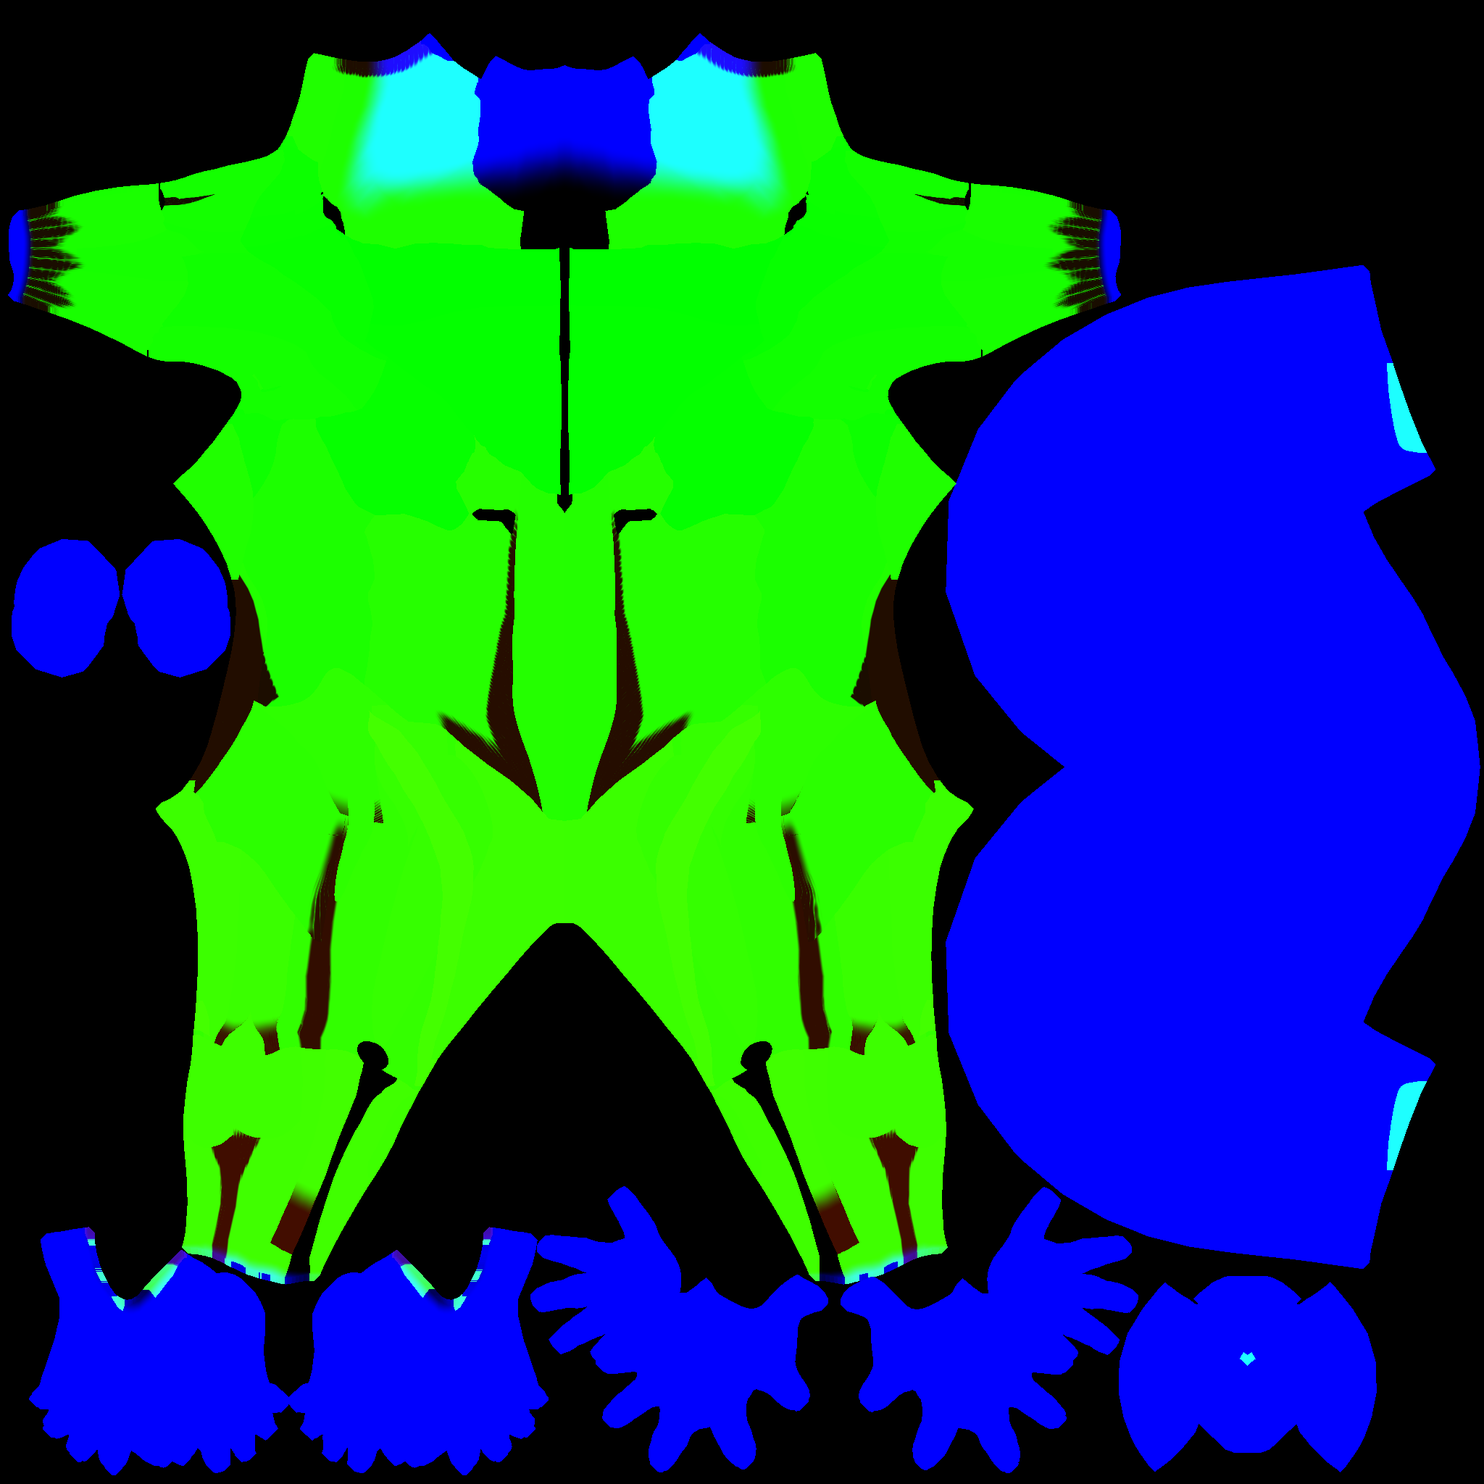
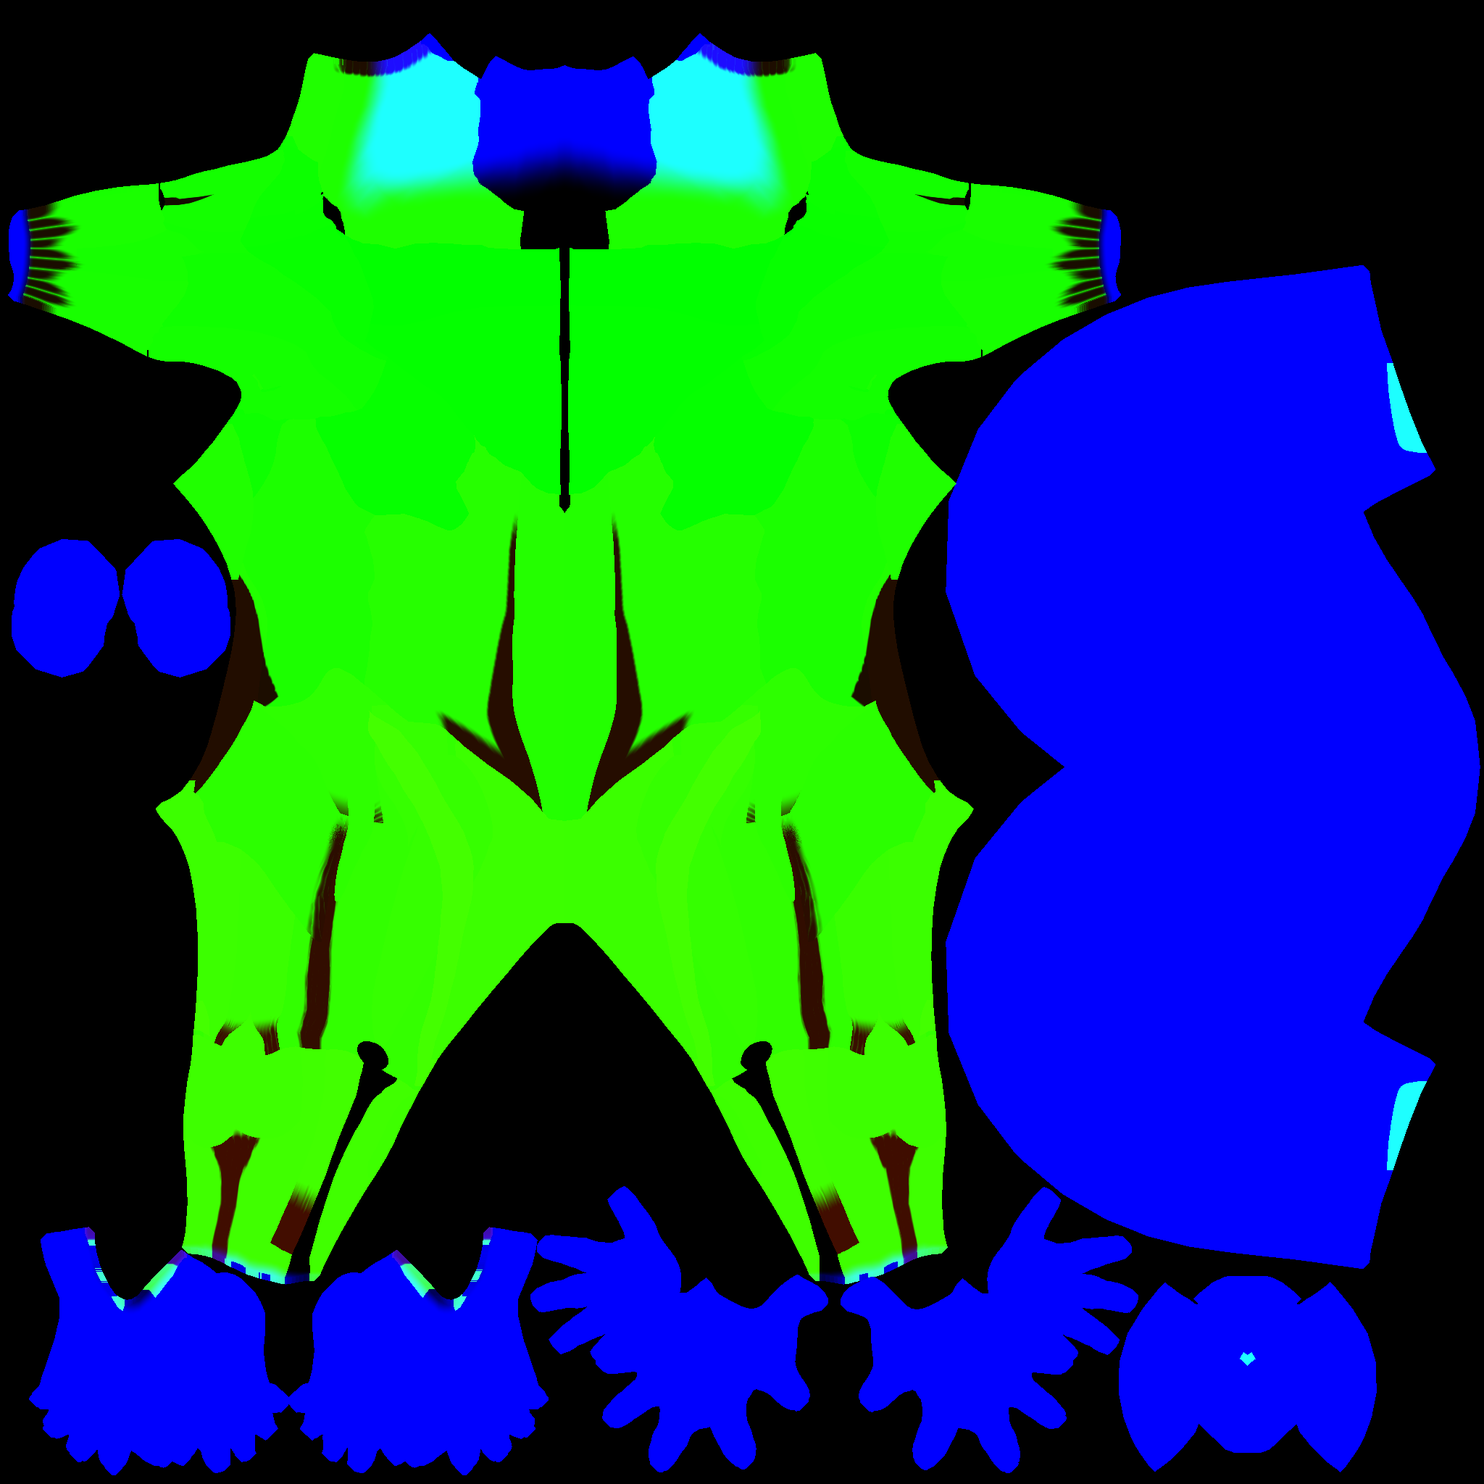
Anatomie feiner: gezeichnete Faserstränge, runde Muskelbäuche, Bauchzacken, Version 0.6.0
- Fasern als Stränge in der Farbe statt im Relief (glitzerten wie Strick):
  feine Trennlinie, runde Schattierung, eigene Helligkeit je Strang; wo die
  Textur zu grob ist, doppelt so breite Stränge statt Ausblenden
- Wölbung je Muskel geglättet (keine Dachgrate/Pyramiden mehr auf dem Sixpack)
- Grenzpunkte zwischen den Texeln, Abstandsfeld leicht geglättet: schräge
  Furchen ohne Treppenstufen; helle Faszie aus dem ungeglätteten Feld
- Äußerer schräger Bauchmuskel mit spitzen Ursprungszacken am Rippenbogen,
  Maskenlücke am Rippenbogen geschlossen, Aponeurose mit glattem Rand
- Reliefkarte trägt im Grünkanal die Furchentiefe; Furchen fangen kein
  Glanzlicht mehr (keine lila Säume vom Fülllicht)

Claude-Session: https://claude.ai/code/session_01LHRCLqy4qHW6NHZ8ZRBzk7

diff --git a/tools/anatomie-kern.ts b/tools/anatomie-kern.ts
@@ -8,7 +8,7 @@
 //
 // Ergebnis je Geschlecht:
 //   farbe  RGB  – gemalte Anatomie (sRGB)
-//   hoehe  L    – Relief für Bump-Mapping (0,5 = neutral)
+//   hoehe  RGB  – R = Relief für Bump-Mapping (0,5 = neutral), G = Furchentiefe (dämpft Glanz)
 //   karte  RGBA – R = Einheit (0 = Sehne/Haut), G = Muskelanteil (255 = Muskel, 0 = Sehne), B = Hautzone
 
 import fs from 'node:fs';
@@ -184,7 +184,8 @@ export function backe(g: 'm' | 'w', N = 2048): Ergebnis {
         return ix(u > 0.58 && v > 0.45 ? 'serratus' : u < uRect(v) ? 'bauch_g' : 'bauch_s', s);
       }
     }
-    if ((id === 'bauch_g' || id === 'bauch_s') && nz > -0.05 && u < 0.6 && v >= 0.45) return ix(u < uRect(v) ? 'bauch_g' : 'bauch_s', s);
+    if ((id === 'bauch_g' || id === 'bauch_s' || (id === '' && u > 0.03 && v < 0.53 + 0.22 * Math.pow(Math.min(1, u), 1.6))) && nz > -0.05 && u < 0.6 && v >= 0.45)
+      return ix(u < uRect(v) ? 'bauch_g' : 'bauch_s', s);   // auch Maskenlücken am Rippenbogen
     // Becken und Oberschenkel: Grenzen im Koordinatensystem des Oberschenkels (Winkel w um die Achse, Höhe v),
     // damit Beckenkamm, Leistenband, Gesäßfalte und Spanner der Oberschenkelbinde glatt verlaufen
     if (UNTEN.has(id) && v < 0.45 && u < 1.4) {
@@ -305,6 +306,10 @@ export function backe(g: 'm' | 'w', N = 2048): Ergebnis {
       const breite = v > 0.14 ? 0.4 * Math.max(0, 1 - (v - 0.14) / 0.32) : 0.4 * Math.max(0, 1 - (0.14 - v) / 0.24);
       s = id === 'strecker' && v < 0.14 ? 0.88 : 0.88 * (1 - glatt(breite - 0.015, breite + 0.015, u)) * glatt(0.05, 0.3, -nz);
     } else if (id === 'bauch_s' && nz > -0.2) {
+      // Ursprungszacken an den unteren Rippen, in Flucht der Sägemuskel-Zacken; abwechselnd lang (Verzahnung)
+      const q = (y + 0.6 * z) / 0.026, j = Math.floor(q), lang = ((j % 2) + 2) % 2;
+      const spitze = 0.5 + 0.07 * lang + 0.16 * Math.abs(q - j - 0.5);       // jede Zacke endet als Finger
+      if (v > 0.3 && u > spitze) k = 1 + (((j % 8) + 8) % 8);
       // Aponeurose des äußeren schrägen Bauchmuskels: schmal neben dem Sixpack, nach unten breiter, Saum am Leistenband
       const rand = uRect(v) + 0.03 + 0.1 * glatt(0.38, 0.05, v);
       const neben = 1 - glatt(rand - 0.015, rand + 0.015, u);
@@ -359,16 +364,17 @@ export function backe(g: 'm' | 'w', N = 2048): Ergebnis {
   for (let py = 0; py < N; py++) for (let px = 0; px < N; px++) {
     const i = py * N + px;
     if (dreieck[i] < 0) continue;
-    let st = 0, hl = 0;
+    let st = 0, hl = 0, jb = i;
     for (const j of [px + 1 < N ? i + 1 : -1, py + 1 < N ? i + N : -1]) {
       if (j < 0 || dreieck[j] < 0 || teil[j] === teil[i]) continue;
       // nur echte Nachbarn im Raum (UV-Nähte trennen Texel, die im Körper weit auseinanderliegen)
       const d = Math.hypot(pos[3 * i] - pos[3 * j], pos[3 * i + 1] - pos[3 * j + 1], pos[3 * i + 2] - pos[3 * j + 2]);
       if (d > 0.006) continue;
       const sv = staerke(teil[i], teil[j]) * (1 - 0.75 * Math.min(sehne[i], sehne[j]));
-      if (sv > st) { st = sv; hl = hellVon(teil[i], teil[j]); }
+      if (sv > st) { st = sv; hl = hellVon(teil[i], teil[j]); jb = j; }
     }
-    if (st > 0) { randPkte.push(pos[3 * i], pos[3 * i + 1], pos[3 * i + 2]); randSt.push(st); randHell.push(hl); }
+    // Grenzpunkt genau zwischen den beiden Texeln (halbiert die Treppenstufen schräger Grenzen)
+    if (st > 0) { randPkte.push((pos[3 * i] + pos[3 * jb]) / 2, (pos[3 * i + 1] + pos[3 * jb + 1]) / 2, (pos[3 * i + 2] + pos[3 * jb + 2]) / 2); randSt.push(st); randHell.push(hl); }
   }
 
   // ---------- 4. Abstand jedes Texels zur nächsten Grenze (3D, Gitter 2 cm) ----------
@@ -397,10 +403,57 @@ export function backe(g: 'm' | 'w', N = 2048): Ergebnis {
     abstand[i] = Math.sqrt(best); naechsteSt[i] = bs; naechsteHell[i] = bh;
   }
 
+  // ---------- 4a. Abstandsfeld leicht glätten (Treppen aus dem Texelraster) ----------
+  const abstandRoh = abstand.slice();   // für die feinen hellen Linien (würden durch die Glättung verschwinden)
+  {
+    const RR = 3, kk = Array.from({ length: 2 * RR + 1 }, (_, k) => Math.exp(-(((k - RR) / 1.6) ** 2) / 2));
+    const zw = new Float32Array(NN2);
+    for (const [quelle, ziel, schritt] of [[abstand, zw, 1], [zw, abstand, N]] as [Float32Array, Float32Array, number][]) {
+      const kopie = quelle === abstand ? abstand.slice() : quelle;
+      for (let py = 0; py < N; py++) for (let px = 0; px < N; px++) {
+        const i = py * N + px;
+        if (dreieck[i] < 0) continue;
+        let sw = 0, sv = 0;
+        for (let k = -RR; k <= RR; k++) {
+          const xx = schritt === 1 ? px + k : px, yy = schritt === 1 ? py : py + k;
+          if (xx < 0 || yy < 0 || xx >= N || yy >= N) continue;
+          const j = yy * N + xx;
+          if (dreieck[j] < 0) continue;
+          const d3 = Math.hypot(pos[3 * i] - pos[3 * j], pos[3 * i + 1] - pos[3 * j + 1], pos[3 * i + 2] - pos[3 * j + 2]);
+          if (d3 > 0.008) continue;                                       // UV-Naht: im Körper nicht benachbart
+          sw += kk[k + RR]; sv += kk[k + RR] * kopie[j];
+        }
+        ziel[i] = sw > 0 ? sv / sw : kopie[i];
+      }
+    }
+  }
+
+  // ---------- 4b. Wölbung je Muskel glätten ----------
+  // Das Abstandsfeld zur nächsten Grenze hat Grate (Dachform, Pyramiden auf dem Sixpack). Gauß-Glättung im
+  // Texturraum, nur innerhalb derselben Einheit, rundet die Bäuche ab; die Furche bleibt scharf (eigener Term).
+  const wolb = new Float32Array(NN2), tmp = new Float32Array(NN2);
+  for (let i = 0; i < NN2; i++) if (dreieck[i] >= 0) wolb[i] = 1 - (1 - Math.min(1, abstand[i] / 0.032)) ** 2.2;
+  const R = 12, kern = Array.from({ length: 2 * R + 1 }, (_, k) => Math.exp(-(((k - R) / 6) ** 2) / 2));
+  for (const [quelle, ziel, schritt] of [[wolb, tmp, 1], [tmp, wolb, N]] as [Float32Array, Float32Array, number][]) {
+    for (let py = 0; py < N; py++) for (let px = 0; px < N; px++) {
+      const i = py * N + px;
+      if (dreieck[i] < 0) continue;
+      let sw = 0, sv = 0;
+      for (let k = -R; k <= R; k++) {
+        const xx = schritt === 1 ? px + k : px, yy = schritt === 1 ? py : py + k;
+        if (xx < 0 || yy < 0 || xx >= N || yy >= N) continue;
+        const j = yy * N + xx;
+        if (dreieck[j] < 0 || einheit[j] !== einheit[i]) continue;
+        sw += kern[k + R]; sv += kern[k + R] * quelle[j];
+      }
+      ziel[i] = sw > 0 ? sv / sw : quelle[i];
+    }
+  }
+
   // ---------- 5. Farbe und Relief ----------
   // Plastik entsteht aus Licht, nicht aus Linien: Muskelbäuche wölben sich, Grenzen sind Furchen (dunkel, im Relief
   // tief), Fasern sind gerundete Bündel mit unregelmäßiger Helligkeit, Sehnenübergänge fiedern entlang der Fasern aus.
-  const farbe = new Uint8Array(NN2 * 3), hoehe = new Uint8Array(NN2), karte = new Uint8Array(NN2 * 4);
+  const farbe = new Uint8Array(NN2 * 3), hoehe = new Uint8Array(NN2 * 3), karte = new Uint8Array(NN2 * 4);
   const MUSKEL_D: V3 = [88, 28, 23], MUSKEL_M: V3 = [174, 72, 55], MUSKEL_H: V3 = [228, 140, 112];
   const SEHNE: V3 = [234, 227, 224], KNOCHEN: V3 = [212, 196, 176], FASZIE: V3 = [238, 218, 210];
   const lin = (c: number) => { const x = c / 255; return x <= 0.04045 ? x / 12.92 : ((x + 0.055) / 1.055) ** 2.4; };
@@ -410,35 +463,47 @@ export function backe(g: 'm' | 'w', N = 2048): Ergebnis {
     if (dreieck[i] < 0) continue;
     const x = pos[3 * i], y = pos[3 * i + 1], z = pos[3 * i + 2], e = einheit[i];
     const d = abstand[i], st = naechsteSt[i], hell = naechsteHell[i];
-    const bauch = 1 - (1 - Math.min(1, d / 0.032)) ** 2.2;                 // breite Wölbung, steiler Rand
+    const bauch = Math.min(wolb[i], 1 - (1 - Math.min(1, d / 0.032)) ** 2.2 + 0.12);   // geglättet, am Rand nicht höher als roh
     const furche = st * (1 - glatt(0.0, 0.011, d)) ** 1.8;                  // ~1 cm breite, weich auslaufende Furche
-    const linieHell = hell * st * (1 - glatt(0.0004, 0.0011, d));            // feine helle Faszie (Linea alba, Sehnenzüge)
+    const linieHell = hell * st * (1 - glatt(0.0007, 0.0017, abstandRoh[i]));   // helle Faszie (Linea alba, Sehnenzüge), ~3 mm
     const korn = rauschen(x * 400, y * 400, z * 400) - 0.5, wolke = rauschen(x * 25, y * 25, z * 25) - 0.5;
-    // Faserbündel (~3,5 mm): gerundet, mit dunkler Naht, eigener Helligkeit und Streifen entlang des Bündels
+    // Faserstränge (~4 mm) wie gezeichnet: feine dunkle Trennlinie, gerundete Mitte, eigene Helligkeit je Strang,
+    // Streifen entlang des Strangs; Breite schwankt. Nur Farbe – im Relief würden sie glitzern.
     let bund = 0.5, naht = 0, strahl = 0, zufall = 0;
     if (e) {
       const ph = phase[i];
-      const nb = px + 1 < N && dreieck[i + 1] >= 0 && einheit[i + 1] === e ? Math.abs(phase[i + 1] - ph) : 0;
-      const aa = 1 - glatt(0.12, 0.24, nb);                                  // zu dicht für die Auflösung: weglassen
-      const q = 1.5 * ph + 0.6 * (rauschen(x * 40, y * 40, z * 40) - 0.5), idx = Math.floor(q), fr = q - idx;
-      bund = 0.5 + (Math.sqrt(Math.sin(Math.PI * fr)) - 0.5) * aa;
-      naht = (1 - glatt(0.0, 0.16, Math.min(fr, 1 - fr))) * aa;
-      zufall = (hash(idx, e, 7) - 0.5) * aa;
-      strahl = (rauschen(x * 90 + idx * 1.7, y * 90 + idx * 0.9, z * 90) - 0.5) * aa;
+      // Phasenänderung je Texel in beiden Richtungen: wo die Textur für feine Stränge zu grob ist, doppelt so breite
+      // Stränge (zweite Stufe) statt Ausblenden
+      const dx = px + 1 < N && dreieck[i + 1] >= 0 && einheit[i + 1] === e ? Math.abs(phase[i + 1] - ph) : 0;
+      const dy = py + 1 < N && dreieck[i + N] >= 0 && einheit[i + N] === e ? Math.abs(phase[i + N] - ph) : 0;
+      const nb = Math.max(dx < 0.5 ? dx : 0, dy < 0.5 ? dy : 0);
+      const grob = glatt(0.13, 0.2, 1.32 * nb), aa = 1 - glatt(0.15, 0.24, 0.66 * nb);
+      const verzug = 0.55 * (rauschen(x * 30, y * 30, z * 30) - 0.5) + 0.18 * (rauschen(x * 140, y * 140, z * 140) - 0.5);
+      const strang = (f: number) => {
+        const q = f * ph + verzug, idx = Math.floor(q), fr = q - idx, rand = hash(idx, e, 11);
+        const breite = 0.08 + 0.08 * rand;                                     // halbe Trennlinie im Strangmaß
+        return { naht: 1 - glatt(0.3 * breite, breite, Math.min(fr, 1 - fr)), bund: Math.sin(Math.PI * fr) ** 0.7 - 0.6,
+          zufall: hash(idx, e, 7) - 0.5, strahl: rauschen(x * 70 + idx * 1.7, y * 70 + idx * 0.9, z * 70) - 0.5 };
+      };
+      const fein = strang(1.32), breit = strang(0.66);
+      const m = (a: number, b: number) => mischen(a, b, grob) * aa;
+      naht = m(fein.naht, breit.naht); bund = 0.5 + m(fein.bund, breit.bund);
+      zufall = m(fein.zufall, breit.zufall); strahl = m(fein.strahl, breit.strahl);
     }
     // Sehne: Übergang fiedert entlang der Bündel aus statt als weicher Verlauf
     const sRoh = sehne[i];
     let s = sRoh;
     if (e) {
-      s = Math.min(1, Math.max(0, sRoh + (0.5 * (bund - 0.5) + 0.35 * strahl) * 4 * sRoh * (1 - sRoh)));
+      const fieder = idVon(e) === 'bauch_s' ? 0.15 : 0.6;
+      s = Math.min(1, Math.max(0, sRoh + fieder * (0.5 * (bund - 0.5) + 0.35 * strahl) * 4 * sRoh * (1 - sRoh)));
       s = Math.min(0.95, glatt(0.12, 0.88, s));
     }
     // Muskel: Wölbung hell, Furche tief und satt; Bündel, Streifen, Wolken und Korn brechen die Gleichförmigkeit
-    const licht = 0.2 + 0.64 * bauch + 0.05 * (bund - 0.5) + 0.07 * zufall + 0.07 * strahl + 0.08 * wolke + 0.03 * korn - 0.05 * naht - 0.24 * furche;
+    const licht = 0.2 + 0.6 * bauch + 0.13 * (bund - 0.5) + 0.12 * zufall + 0.07 * strahl + 0.06 * wolke + 0.02 * korn - 0.17 * naht - 0.24 * furche;
     const l = Math.min(1, Math.max(0, licht));
     const muskel: V3 = [0, 1, 2].map(k => l < 0.5 ? mischen(MUSKEL_D[k], MUSKEL_M[k], l / 0.5) : mischen(MUSKEL_M[k], MUSKEL_H[k], (l - 0.5) / 0.5)) as V3;
     // Sehne perlmuttartig mit Faserstreifen, Knochen elfenbeinfarben
-    const sh = 0.93 + 0.05 * (bund - 0.5) + 0.04 * strahl + 0.03 * wolke + 0.02 * korn - 0.1 * furche;
+    const sh = 0.94 + 0.03 * (bund - 0.5) + 0.04 * strahl + 0.03 * wolke + 0.02 * korn - 0.04 * naht - 0.1 * furche;
     const basis = e === 0 ? KNOCHEN : SEHNE;
     const c: V3 = [0, 1, 2].map(k => {
       let v = mischen(muskel[k], basis[k] * sh, s);
@@ -447,10 +512,10 @@ export function backe(g: 'm' | 'w', N = 2048): Ergebnis {
     }) as V3;
     farbe[3 * i] = c[0]; farbe[3 * i + 1] = c[1]; farbe[3 * i + 2] = c[2];
     if (e && s < 0.2) { lumSumme += 0.2126 * lin(c[0]) + 0.7152 * lin(c[1]) + 0.0722 * lin(c[2]); lumAnzahl++; }
-    // Relief: Bauch hoch, Furche tief, Bündel fein gerundet; Sehnen flach mit leichten Längsrippen
-    const h = 0.5 + (1 - s) * (0.3 * bauch + 0.012 * (bund - 0.5) - 0.008 * naht + 0.008 * strahl)
-      + s * 0.008 * (bund - 0.5) - 0.2 * furche + 0.004 * korn + 0.28 * hals2[i];
-    hoehe[i] = Math.max(0, Math.min(255, Math.round(h * 255)));
+    // Relief nur grob: Bauch hoch, Furche tief (Fasern stecken in der Farbe). G = Furchentiefe für Glanzdämpfung
+    const h = 0.5 + (1 - s) * 0.3 * bauch - 0.2 * furche + 0.28 * hals2[i];
+    hoehe[3 * i] = Math.max(0, Math.min(255, Math.round(h * 255)));
+    hoehe[3 * i + 1] = Math.round(255 * Math.min(1, furche));
     karte[4 * i] = e; karte[4 * i + 1] = Math.round(255 * (1 - s)); karte[4 * i + 2] = Math.round(255 * hautzone[i]); karte[4 * i + 3] = 255;
   }
   console.log(`${g}: mittlere Muskel-Luminanz (linear) ${(lumSumme / Math.max(1, lumAnzahl)).toFixed(3)}`);
@@ -469,7 +534,7 @@ export function backe(g: 'm' | 'w', N = 2048): Ergebnis {
     }
     for (let k = 0; k < neu.length; k += 2) {
       const i = neu[k], j = neu[k + 1];
-      farbe.copyWithin(3 * i, 3 * j, 3 * j + 3); hoehe[i] = hoehe[j]; karte.copyWithin(4 * i, 4 * j, 4 * j + 4);
+      farbe.copyWithin(3 * i, 3 * j, 3 * j + 3); hoehe.copyWithin(3 * i, 3 * j, 3 * j + 3); karte.copyWithin(4 * i, 4 * j, 4 * j + 4);
     }
     for (let k = 0; k < neu.length; k += 2) belegt[neu[k]] = 1;
   }

diff --git a/src/avatar/AvatarModell.tsx b/src/avatar/AvatarModell.tsx
@@ -166,6 +166,7 @@ function kleidMaterial(map: THREE.Texture, akzent: THREE.Color, gelenke: Koerper
         diffuseColor.rgb = mix(diffuseColor.rgb, hautFarbe, uAnatomie * vHautZone * (1.0 - decke));
         // Texturpaket (sobald geladen): gemalte Anatomie, pixelgenaue Einheiten, Relief – ersetzt das Prozedurale
         float gewebe = 0.0;   // 1 = Muskel, 0 = Sehne/Knochen/Haut (für Glanz)
+        float hoehle = 0.0;   // Furchentiefe: dort kein Glanz
         if (uKarteAn > 0.5) {
           vec4 kt = texture2D(uAnatKarte, vMapUv);
           gewebe = kt.g * step(0.5, floor(kt.r * 255.0 + 0.5)) * uAnatomie;
@@ -180,15 +181,22 @@ function kleidMaterial(map: THREE.Texture, akzent: THREE.Color, gelenke: Koerper
           vec3 tex = mix(entw, anat, uAnatomie);
           tex = mix(tex, hautFarbe, kt.b * step(id, 0.5) * uAnatomie);
           diffuseColor.rgb = mix(nachKleid, tex, uFarbAnteil);
-          float hoeheTex = (texture2D(uAnatHoehe, vMapUv).r - 0.5) * 0.016;
+          vec3 ht = texture2D(uAnatHoehe, vMapUv).rgb;
+          float hoeheTex = (ht.r - 0.5) * 0.016;
+          hoehle = ht.g * uAnatomie;
           hoehe = (uAnatomie + 0.35 * (uFarbAnteil - uAnatomie)) * hoeheTex - (1.0 - uFarbAnteil) * hautTiefe;
         }`)
       .replace('#include <roughnessmap_fragment>', `#include <roughnessmap_fragment>
-        roughnessFactor = mix(roughnessFactor, mix(0.55, 0.44, gewebe), uAnatomie * uKarteAn);`)
+        roughnessFactor = mix(roughnessFactor, mix(0.55, 0.46, gewebe) + 0.3 * hoehle, uAnatomie * uKarteAn);`)
       .replace('#include <normal_fragment_maps>', `#include <normal_fragment_maps>
         normal = relief(-vViewPosition, normal, hoehe);`)
-      .replace('#include <clearcoat_normal_fragment_begin>', `#ifdef USE_CLEARCOAT
-        vec3 clearcoatNormal = normal;
+      .replace('#include <lights_fragment_end>', `#include <lights_fragment_end>
+        // Furchen fangen kein Glanzlicht (sonst farbige Säume vom Fülllicht)
+        reflectedLight.directSpecular *= 1.0 - 0.85 * hoehle;
+        reflectedLight.indirectSpecular *= 1.0 - 0.7 * hoehle;
+        #ifdef USE_CLEARCOAT
+        clearcoatSpecularDirect *= 1.0 - hoehle;
+        clearcoatSpecularIndirect *= 1.0 - hoehle;
         #endif`)
       .replace('#include <lights_physical_fragment>', `#include <lights_physical_fragment>
         #ifdef USE_CLEARCOAT
@@ -438,7 +446,7 @@ export function AvatarModell({ daten, zustand, darstellung, auswahl, hautton, ak
     if (Math.abs(ad) > 0.002) { anatAnteil.current += ad * (bewegung ? Math.min(1, dt * 8) : 1); aktiv = true; } else anatAnteil.current = az;
     uniforms.uAnatomie.value = anatAnteil.current;
     mat.roughness = 0.58 - 0.16 * anatAnteil.current;   // Muskelgewebe glänzt leicht feucht
-    mat.clearcoat = 0.001 + 0.12 * anatAnteil.current;     // im Shader nur auf Muskelgewebe
+    mat.clearcoat = 0.001 + 0.08 * anatAnteil.current;     // im Shader nur auf Muskelgewebe
     mat.sheen = 0.02 + 0.33 * (1 - farbAnteil.current);   // Haut-Glanz würde die Farbskalen auswaschen
     if (aktiv || glueht || dirty.current) {
       aktualisiere(a.mu, a.muRest, a.omega);

diff --git a/index.html b/index.html
@@ -17,7 +17,7 @@
 <link rel="preconnect" href="https://fonts.gstatic.com" crossorigin>
 <link rel="stylesheet" href="https://fonts.googleapis.com/css2?family=Barlow:wght@400;500;600;700&family=Saira:wdth,wght@112,600;112,700;112,800&display=swap">
 <script>
-const APP_VERSION = '0.5.0';          // bei JEDER Änderung hochzählen
+const APP_VERSION = '0.6.0';          // bei JEDER Änderung hochzählen
 window.APP_VERSION = APP_VERSION;
 </script>
 </head>

diff --git a/tools/anatomie-bilder.py b/tools/anatomie-bilder.py
@@ -8,7 +8,8 @@ for g in ('m', 'w'):
     lies = lambda k: open(os.path.join(roh, f'{g}-{k}.bin'), 'rb').read()
     Image.frombytes('RGB', (n, n), lies('farbe')).save(os.path.join(ziel, f'anatomie-{g}-farbe.jpg'), 'JPEG', quality=88, optimize=True, progressive=True)
     # Relief verlustfrei: JPG-Blöcke würden im Bump-Mapping als Kacheln sichtbar
-    Image.frombytes('L', (n, n), lies('hoehe')).save(os.path.join(ziel, f'anatomie-{g}-hoehe.png'), 'PNG', optimize=True)
+    # R = Relief, G = Furchentiefe, B frei
+    Image.frombytes('RGB', (n, n), lies('hoehe')).save(os.path.join(ziel, f'anatomie-{g}-hoehe.png'), 'PNG', optimize=True)
     # Karte verlustfrei: R = Einheit, G = Muskelanteil, B = Hautzone
     Image.frombytes('RGBA', (n, n), lies('karte')).convert('RGB').save(os.path.join(ziel, f'anatomie-{g}-karte.png'), 'PNG', optimize=True)
     for k in ('farbe.jpg', 'hoehe.png', 'karte.png'):

diff --git a/README.md b/README.md
@@ -110,14 +110,16 @@ Die Anatomie-Ansicht nutzt je Geschlecht drei Texturen in `public/modelle/` (`an
 `-hoehe.png`, `-karte.png`). Sie werden ohne Grafikprogramm aus dem Körpernetz und den Muskelmasken gebacken:
 
 ```sh
-npm run anatomie     # tools/anatomie-backen.mjs, etwa 25 s je Geschlecht, braucht python3 mit Pillow
+npm run anatomie     # tools/anatomie-backen.mjs, etwa 30 s je Geschlecht, braucht python3 mit Pillow
 ```
 
 `tools/anatomie-kern.ts` wertet je Texel die Masken aus und schneidet die sichtbaren Muskeln nach ihrer echten Form zu
 (Brust, Trapez, Lat, Beckenkamm, Leistenband, Gesäß, Deltamuskel, Wade …). Die Karte trägt je Texel die Einheit;
 zur Laufzeit färbt die App darüber Entwicklung und Auswahl, und ein Tipp trifft den Muskel texelgenau.
 Muskelgrenzen sind Furchen im Relief statt gezeichneter Linien; helle Faszie gibt es nur an Linea alba, Mittellinien und den
-Sehnenzügen des Sixpacks. Fasern sind Bündel mit eigener Helligkeit, Sehnenübergänge fiedern aus. Muskelgewebe bekommt im
+Sehnenzügen des Sixpacks. Fasern sind gezeichnete Stränge mit eigener Helligkeit (in der Farbe, nicht im Relief, damit sie
+nicht glitzern; wo die Textur zu grob ist, doppelt so breit), Sehnenübergänge fiedern aus. Die Reliefkarte trägt im
+Grünkanal die Furchentiefe, damit Furchen kein Glanzlicht fangen. Muskelgewebe bekommt im
 Shader einen feuchten Glanz, Sehnen bleiben seidenmatt.
 
 ## Lizenz der Körpermodelle
